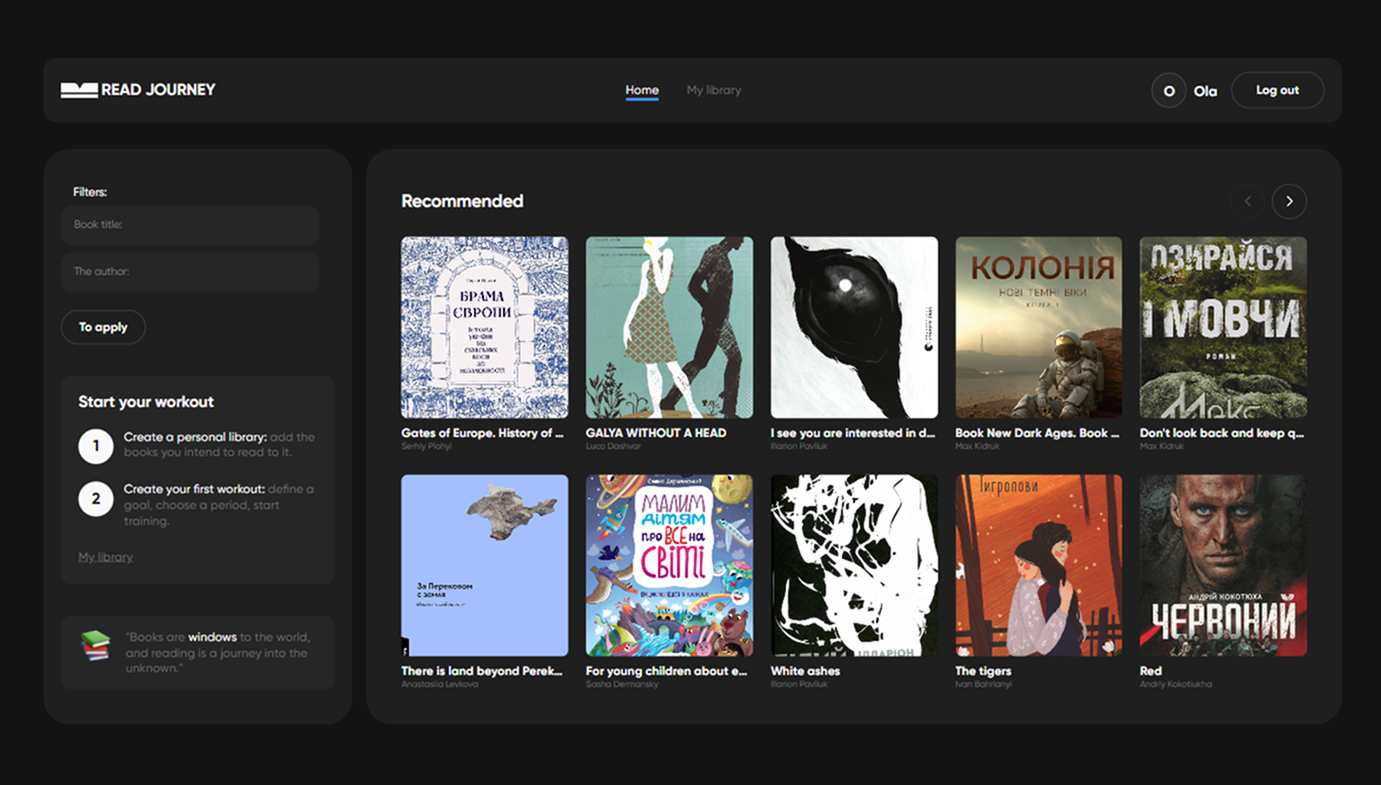
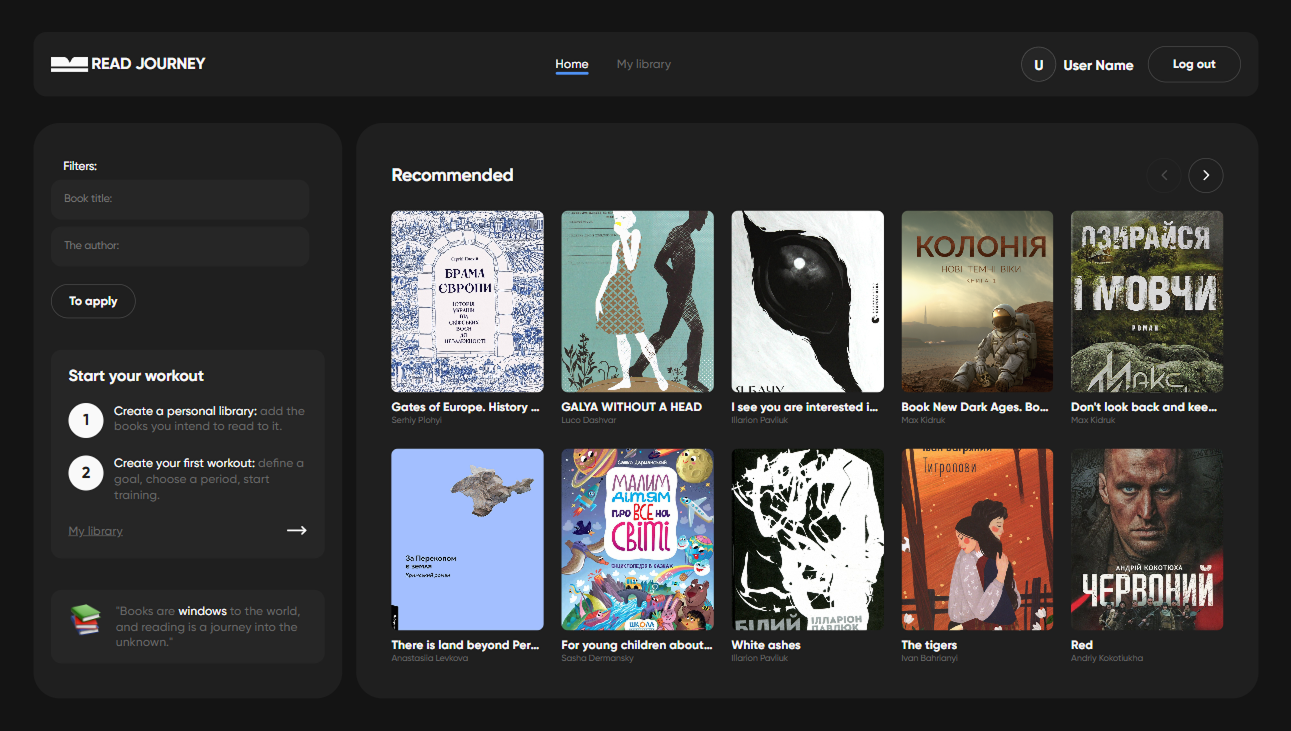
fix userNav

diff --git a/src/components/UserNav/UserNav.jsx b/src/components/UserNav/UserNav.jsx
@@ -1,23 +1,26 @@
 import { Link } from "react-router-dom";
+import { LuMoveRight } from "react-icons/lu";
 import styles from "./UserNav.module.css";
 
 const UserNav = () => {
   return (
     <div className={styles.container}>
       <h3 className={styles.title}>Start your workout</h3>
-      
+
       <ul className={styles.list}>
         <li className={styles.item}>
           <span className={styles.number}>1</span>
           <p className={styles.text}>
-            <span className={styles.accent}>Create a personal library:</span> add the books you intend to read to it.
+            <span className={styles.accent}>Create a personal library:</span>{" "}
+            add the books you intend to read to it.
           </p>
         </li>
-        
+
         <li className={styles.item}>
           <span className={styles.number}>2</span>
           <p className={styles.text}>
-            <span className={styles.accent}>Create your first workout:</span> define a goal, choose a period, start training.
+            <span className={styles.accent}>Create your first workout:</span>{" "}
+            define a goal, choose a period, start training.
           </p>
         </li>
       </ul>
@@ -26,9 +29,7 @@ const UserNav = () => {
         <Link to="/library" className={styles.link}>
           My library
         </Link>
-        <svg className={styles.icon} width="24" height="24">
-          <use href="/src/assets/icons.svg#icon-arrow-right"></use>
-        </svg>
+        <LuMoveRight className={styles.icon} size={24} />
       </div>
     </div>
   );

diff --git a/src/components/UserNav/UserNav.module.css b/src/components/UserNav/UserNav.module.css
@@ -53,21 +53,20 @@
 .linkWrapper {
   display: flex;
   align-items: center;
-  justify-content: space-between;
+ justify-content: space-between;
 }
 
 .link {
-  font-size: 14px;
-  color: var(--light-grey);
+  color: var(--light-grey); 
   text-decoration: underline;
-  transition: color 0.25s ease;
-}
-
-.link:hover {
-  color: var(--light-white);
+  font-size: 14px;
 }
 
 .icon {
-  stroke: var(--light-white);
-  fill: none;
+   color: var(--light-white);
+}
+
+.linkWrapper:hover .link,
+.linkWrapper:hover .icon {
+ color: var(--light-grey);
 }
